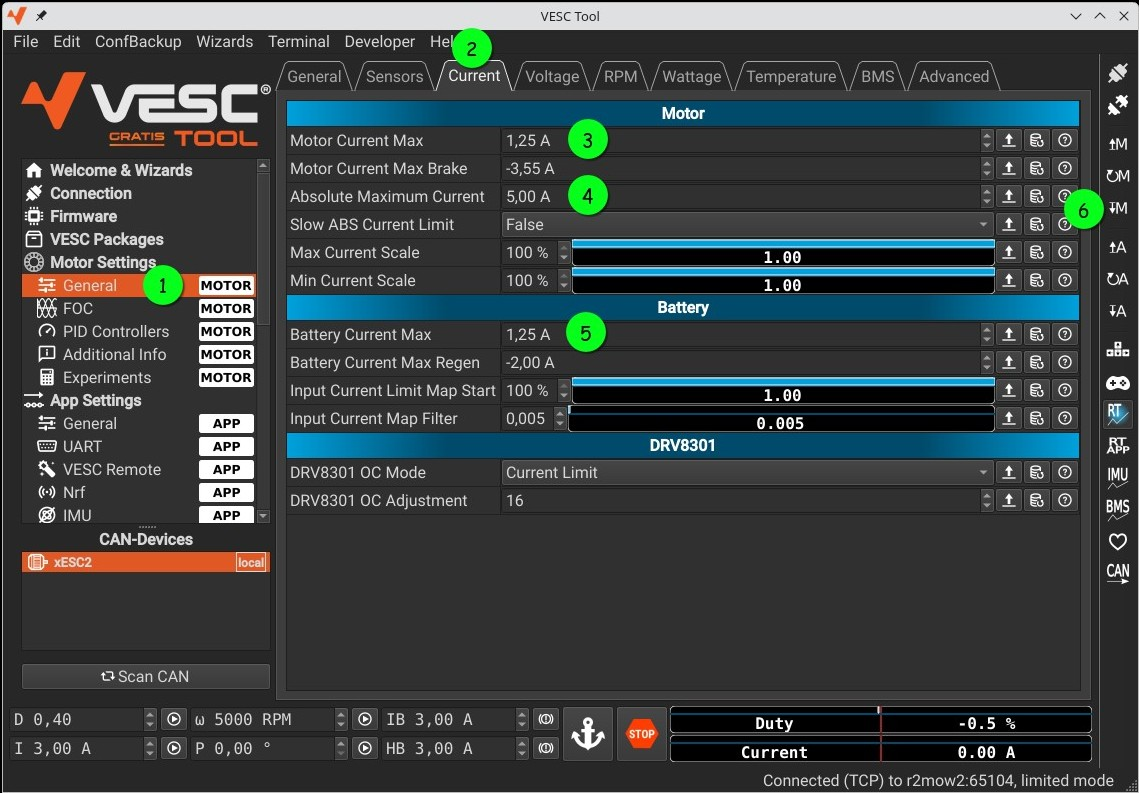
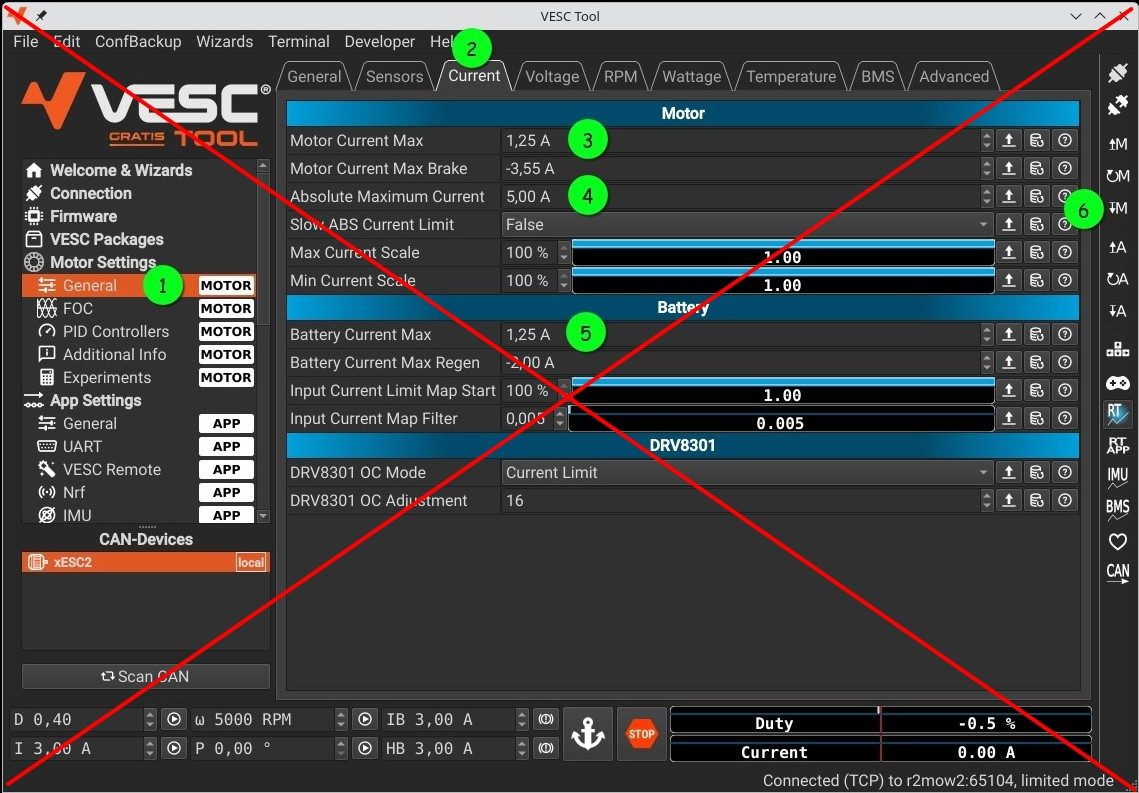
Actualize docs (history, skip optional ESC settings, ...)

diff --git a/README.md b/README.md
@@ -136,12 +136,13 @@ This Carrierboard includes more features than actually required to build an Open
 
 ### Carrier versions
 
-| Version |  Date   | Info                                                                                                                                                                 |
-| :-----: | :-----: | -------------------------------------------------------------------------------------------------------------------------------------------------------------------- |
-| v0.3.0  | 202?/?? | **In development; Not available yet**<br>- Fix Series-I/II emergency incompatibilities<br>- Improve CoverUI circuit<br>- Improve Series-I CoverUI plug accessibility |
-| v0.2.1  | 2025/06 | - Add DCDC-In current sense and allow charge currents up to 2.8A<br>- BMS data support                                                                               |
-| v0.2.0  | 2025/06 | - Fix Series-II emergency oscillation issues<br>- Support Series-I LEDs and Buttons<br>- Support LCD                                                                 |
-| v0.1.0  | 2025/03 | Initial Prototype                                                                                                                                                    |
+| Version |  Date   | Info                                                                                                                                                                                                                                            |
+| :-----: | :-----: | ----------------------------------------------------------------------------------------------------------------------------------------------------------------------------------------------------------------------------------------------- |
+| v0.4.0  | 2026/04 | **In development; Not available yet**<br>- Fix and improve v0.3.0 issues<br>- Skip one GPIO expander and switch to smaller footprint<br>- Rearrange LAN and USB Plug as well as skip 2nd optional LAN in favor of more space for Series-I plugs |
+| v0.3.0  | 2025/11 | **Internal Prototype**<br>- Fix Series-I/II emergency incompatibilities<br>- Improve CoverUI circuit<br>- Improve Series-I CoverUI plug accessibility                                                                                           |
+| v0.2.1  | 2025/06 | - Add DCDC-In current sense and allow charge currents up to 2.8A<br>- BMS data support                                                                                                                                                          |
+| v0.2.0  | 2025/06 | - Fix Series-II emergency oscillation issues<br>- Support Series-I LEDs and Buttons<br>- Support LCD                                                                                                                                            |
+| v0.1.0  | 2025/03 | Initial Prototype                                                                                                                                                                                                                               |
 
 ## Patents, Local Laws, Liability
 

diff --git a/INSTALL-SOFTWARE.md b/INSTALL-SOFTWARE.md
@@ -152,7 +152,7 @@ Perform calibration for left drive first, then repeat the procedure for the righ
 
 10. As a last important step, load the correct ESC-App config via: _File → Load App Configuration XML_, choose `SABO_Drive-App.xml` (see [SABO ESCs configs](https://github.com/xtech/hw-openmower-sabo/tree/main/Configs/xESC)) and finally press the `↧A` icon (Write app configuration) on the right side.
 
-11. Optional misc settings which you might align to be within the motor/battery specs:<br>
+11. ~~Optional misc settings which you might align to be within the motor/battery specs:<br>~~
    ![Drive Settings](assets/vesc_6_settings1.jpg)
 
 Done :satisfied:<br>
@@ -188,7 +188,7 @@ For the mow motor ESC calibration, you do the same workflow, but with adapted va
    It's important to limit the max. RPM to the one like OEM is running it! Otherwise you risk your motor bearings or more dangerous: Your blade might fly away :skull:
    ![Limit RPM](assets/vesc_7_mow_settings2.jpg)
 
-7. Optional misc settings which you might align to be within the motor/battery specs:<br>
+7. ~~Optional misc settings which you might align to be within the motor/battery specs:<br>~~
    ![Drive Settings](assets/vesc_7_mow_settings1.jpg)
 
 </details>
